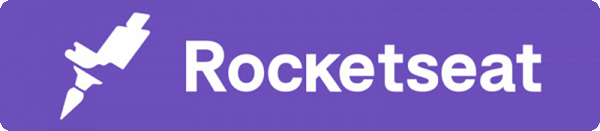
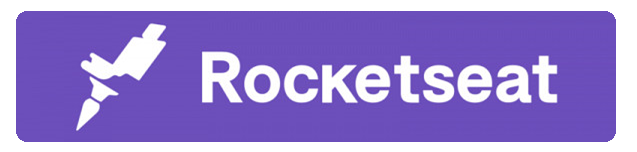
Adding images on hub

diff --git a/README.md b/README.md
@@ -67,7 +67,7 @@ Seu cartão de visita é o GitHub, por isso é importante ter um repositório de
 
 |||
 |--|--|
-|Basicamente a estratégia é documentar no arquivo **README.md**, o qual é o arquivo padrão exibido ao acessar seu repositório e o código do projeto, e que todas as pessoas poderão lê-lo. Lembrando que neste arquivo você explica o seu projeto de forma não muito técnico, focado no visual e na compreensão do que se trata seu código. |<p align="center"> <img alt="Developer" title="Developer" src="https://raw.githubusercontent.com/Auriflanos/Git_GitHub_Training/master/Images/Imagem1.png" width="1000px" /> </p><p align="center">Exemplo de [README.md](http://readme.md) muito bem criado. Autoria de: <a href="https://rocketseat.com.br/" target="_blank"><img alt="RocketSeat" title="RocketSeat" src="https://www.websystemer.no/wp-content/uploads/2020/05/rocketseat-realmente-vale-a-pena-800x445.png" width="200px"/></a></p>|
+|Basicamente a estratégia é documentar no arquivo **README.md**, o qual é o arquivo padrão exibido ao acessar seu repositório e o código do projeto, e que todas as pessoas poderão lê-lo. Lembrando que neste arquivo você explica o seu projeto de forma não muito técnico, focado no visual e na compreensão do que se trata seu código. |<p align="center"> <img alt="Developer" title="Developer" src="https://raw.githubusercontent.com/Auriflanos/Git_GitHub_Training/master/Images/Imagem1.png" width="1000px" /> </p><p align="center">Exemplo de [README.md](http://readme.md) muito bem criado. Autoria de: <a href="https://rocketseat.com.br/" target="_blank"><img alt="RocketSeat" title="RocketSeat" src="https://raw.githubusercontent.com/Auriflanos/Git_GitHub_Training/master/Images/Imagem39.png" width="200px"/></a></p>|
 
 
 <p align="center">![https://s3-us-west-2.amazonaws.com/secure.notion-static.com/2499aca6-e318-4fa5-994c-bad04dd2e90e/Untitled.png](https://s3-us-west-2.amazonaws.com/secure.notion-static.com/2499aca6-e318-4fa5-994c-bad04dd2e90e/Untitled.png)
